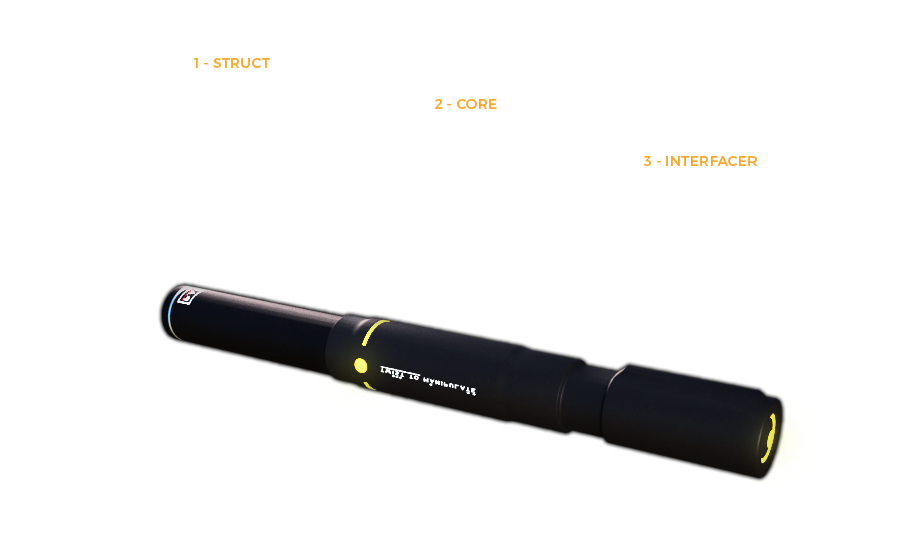
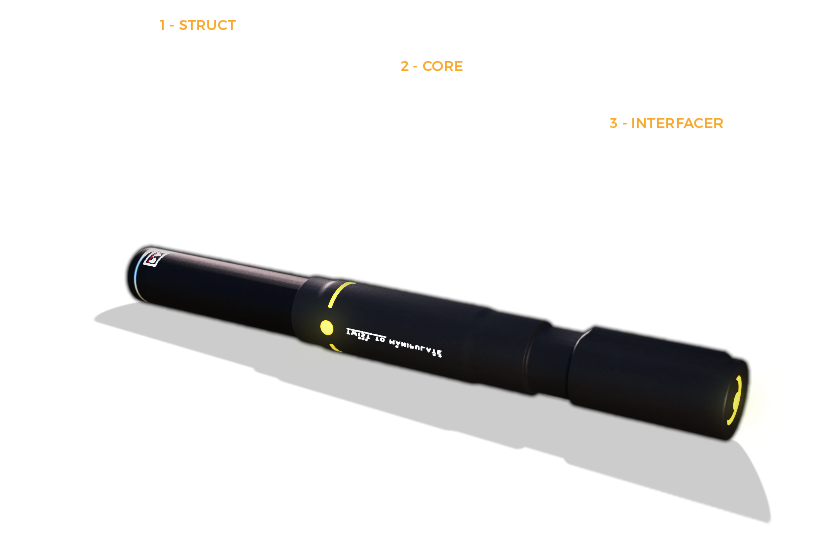
paci updates

diff --git a/paci.html b/paci.html
@@ -61,57 +61,85 @@
 
     <!--     Header Section     -->
     <header class="contentHeader" style="background-image: url(img/body/paci_scroll_bg.png);">
-      <div class="header-content contentHeaderContent parallax_ns4_gadget" style="background-image: url(img/body/paci_center.png); background-position: 50% 50%;">
-        <div class="contentHeaderContentInner">
-        	<img src="img/body/paci2_anim_1.png" id="paci_anim" width="300" />
-        	<h1 class="bodyTitle" id="mainQuote">PACI STICK_</h1>
-        	<p class="justify">Polysystemic Access and Control Interface<br>
-        	<em>Definitive tool for back-end UNIT access.</em></p>
-        	<hr class="light left" style="width:300px;">
-        </div>
+      <div class="header-content contentHeaderContent parallax_ns4_gadget" style="background-image: url(img/body/paci_center.png); background-position: 100% 50%;">
+            <div class="contentHeaderContentInner">
+              <img src="img/body/paci2_anim_1.png" id="paci_anim" width="300" />
+              <h1 class="bodyTitle" id="mainQuote">PACI STICK_</h1>
+              <p class="justify">Polysystemic Access and Control Interface<br>
+              <em>Definitive tool for back-end UNIT access.</em></p>
+              <hr class="light left" style="width:300px;">
+            </div>
         <div class="contentHeaderContentInnerScroll">
-        	<h1 class="scrollTitle">v SCROLL DOWN v</h1>
+              <h1 class="scrollTitle vanishOnScroll">v SCROLL DOWN v</h1>
         </div>
       </div>
     </header>
 
+    <!--     Header Section (Mobile)     -->
+    <header class="McontentHeader" style="background-image: url(img/body/paci_scroll_bg.png);">
+      <div class="header-content McontentHeaderContent">
+            <div class="McontentHeaderContentInner">
+              <img src="img/body/paci2_anim_1.png" id="paci_anim" width="300" />
+              <h1 class="bodyTitle" id="mainQuote">PACI STICK_</h1>
+              <p class="justify">Polysystemic Access and Control Interface<br>
+              <em>Definitive tool for back-end UNIT access.</em></p>
+              <hr class="light left" style="width:300px;">
+            </div>
+      </div>
+      <img src="img/body/paci_center.png" style="width: 100%" />
+    </header>
+
     <!--     Section     -->
     <section class="bg-dark2 shadow-top">
+    <div class="container">
+      <div class="row">
+        <div class="col-lg-6 text-left">
+          <h2>Lockpicks have become obselete</h2>
+          <hr class="light left">
+          <p>Officially designated Polysystemic Access and Control Interface, PACI sticks are a definitive tool in the arsenal of any hacker, whether that's an engineer, thief, or operative. These five devices, now available widely but often not legally, share the ability to interface with any computer architecture in existence - with each one being designed to target one specific type.</p>
+          <p>Given that back-end access to UNIT is access to nearly anything with the right skillset and tools, lockpicks have been effectively phased out by PACI sticks in all but the most backwater of regions. Often, operatives are trained to rely on their PACI sticks instead of their gun as a last resort weapon due to their incredible potential.</p>
+        </div>
+        <div class="col-lg-6">
+          <div class="quoteBlock agentRookQuoteBlock">
+            <p class="quoteBlockContent">Behind the reality we can see with our eyes, there is one we don't. Everything, from the most inconsequential microchip to the most powerful supercomputer, is interconnected. It's what computer scientists call the Ubiquitous-Node Internet of Things, or UNIT.</p>
+            <p class="quoteBlockContent">Every member of our society is expected to understand and interact with UNIT. The depth of your understanding and expertise, however, can dictate who you are in this world. Even the most rugged of operatives have to fully understand UNIT, because if they don't, it's only a matter of time before they get blindsided.</p>
+            <hr>
+            <h1>PRACTICAL HACKING // <span class="color">UNIT</span></h1>
+            <p class="quoteBlockSource"><em>Agent Rook's Guide to Interstellar Black Ops</em></p>
+          </div>
+        </div>
+      </div>
+    </div>
+    </section>
+
+  <!--     Section     -->
+    <section class="bg-dark3">
       <div class="container">
         <div class="row">
-          <div class="col-lg-6 text-left">
-          	<h2>Lockpicks have become obselete</h2>
-            <hr class="light left">
-            <p>Officially designated Polysystemic Access and Control Interface, PACI sticks are a definitive tool in the arsenal of any hacker, whether that's an engineer, thief, or operative. These five devices, now available widely but often not legally, share the ability to interface with any computer architecture in existence - with each one being designed to target one specific type.</p>
-			<p>Given that back-end access to UNIT is access to nearly anything with the right skillset and tools, lockpicks have been effectively phased out by PACI sticks in all but the most backwater of regions. Often, operatives are trained to rely on their PACI sticks instead of their gun as a last resort weapon due to their incredible potential.</p>
+          <div class="col-lg-4 text-left simpleFlex mobilePadding">
+            <img src="img/body/HefeiLab.png" />
+            <h1 class="mTitle">HEFEI LABS</h1>
           </div>
-          <div class="col-lg-6">
-          	<div class="quoteBlock agentRookQuoteBlock">
-          		<p class="quoteBlockContent">Behind the reality we can see with our eyes, there is one we don't. Everything, from the most inconsequential microchip to the most powerful supercomputer, is interconnected. It's what computer scientists call the Ubiquitous-Node Internet of Things, or UNIT.</p>
-				<p class="quoteBlockContent">Every member of our society is expected to understand and interact with UNIT. The depth of your understanding and expertise, however, can dictate who you are in this world. Even the most rugged of operatives have to fully understand UNIT, because if they don't, it's only a matter of time before they get blindsided.</p>
-				<hr>
-				<h1>PRACTICAL HACKING // <span class="color">UNIT</span></h1>
-				<p class="quoteBlockSource"><em>Agent Rook's Guide to Interstellar Black Ops</em></p>
-          	</div>
+          <div class="col-lg-8 text-left">
+            <h2>Ushering in a new age</h2>
+            <hr class="light left">
+            <p>Before the specifications for PACI were leaked from Hefei Labs 34 years ago, interfacing with UNIT systems was a cable management nightmare. Unique digital readers and adapter chains for thousands of different computer systems with non-conforming standards was a typical cirumstance, and in a way, that provided them security.</p>
+            <p>PACI sticks changed the game. By using revolutionary hardware to bridge devices on their respective architectures, an entire new world revealed itself. Hackers across the universe suddenly had portable access to any UNIT device, and the security of nearly every institution in existence was put to the test within that first year.</p>
+            <p>The world hasn’t been the same since.</p>
           </div>
         </div>
       </div>
     </section>
 
-	<!--     Section     -->
-    <section class="bg-dark3">
+    <!--     Section     -->
+    <section class="bg-dark2">
       <div class="container">
         <div class="row">
           <div class="col-lg-12 text-left">
-          	<h2>Ushering in a new age</h2>
+            <h2>Component Breakdown</h2>
             <hr class="light left">
-            <p>Before the specifications for PACI were leaked from Hefei Labs 34 years ago, interfacing with UNIT systems was a cable management nightmare. Unique digital readers and adapter chains for thousands of different computer systems with non-conforming standards was a typical cirumstance, and in a way, that provided them security.</p>
-			<p>PACI sticks changed the game. By using revolutionary hardware to bridge devices on their respective architectures, an entire new world revealed itself. Hackers across the universe suddenly had portable access to any UNIT device, and the security of nearly every institution in existence was put to the test within that first year.</p>
-			<p>The world hasn’t been the same since.</p>
-			<div class="contentPadding"></div>
-			<h2>Component Breakdown</h2>
-            <hr class="light left">
-			<div class="centerImage"><img src="img/body/paci_stick.png" /></div>
+            <div class="contentPadding"></div>
+            <div class="centerImage"><img src="img/body/paci_stick.png" class="detailDiagram" /></div>
           </div>
         </div>
       </div>
@@ -133,7 +161,7 @@
       });
 
       $(document).ready(function($) {
-      	$('#mainQuote').shuffleLetters();
+        $('#mainQuote').shuffleLetters();
       });
     </script>
 

diff --git a/css/style.css b/css/style.css
@@ -963,10 +963,16 @@ section.masthead {
   /* Media Queries
   --------------------------------------------- */
 
-  @media all and (max-width : 768px) {
+
+
+  @media all and (max-width : 991px) {
 
     .hiddenItem {
       display: block;
+    }
+
+    .menu {
+      width: 100% !important;
     }
 
   .visibleLogoText {
@@ -1004,10 +1010,6 @@ section.masthead {
     background-color: #333;
     margin-left: -15px;
     margin-right: -15px;
-  }
-
-  ul .menu {
-    width: 100% !important;
   }
 
   nav { margin: 0; }
@@ -1130,9 +1132,52 @@ section.masthead {
   margin-top: auto;
 }
 
+.McontentHeader {
+  display: none;
+  color: white;
+}
+.McontentHeaderContentInner {
+  text-align: center;
+  padding: 10px;
+  margin: 0 auto;
+  padding-bottom: 50px;
+}
+.McontentHeaderContent {
+  height: 100%;
+
+  display: flex;
+  flex-direction: column;
+  justify-content: center;
+
+  padding-top: 125px;
+}
+@media (max-width : 1540px) {
+  .McontentHeader {
+    display: block;
+  }
+  .contentHeader {
+    display: none;
+  }
+}
+
+@media (max-width : 992px) {
+  .mobilePadding {
+    padding-bottom: 50px;
+  }
+}
+
 #paci_anim {
   animation: paci_anim2 2s infinite;
 }
+
+.simpleFlex {
+  display: flex;
+  justify-content: center;
+  align-items: center;
+  flex-direction: column;
+}
+
+
 
 /*@keyframes paci_anim{
   0%{
@@ -1168,6 +1213,12 @@ section.masthead {
 .centerImage {
   text-align: center;
 }
+@media (max-width : 820px) {
+  .detailDiagram {
+    width: 100%;
+  }
+}
+
 
 .contentPadding {
   height: 50px;
@@ -1204,6 +1255,14 @@ section.masthead {
   text-align: right;
 }
 
+.mTitle {
+  font-family: 'Montserrat', Arial, sans-serif;
+  letter-spacing: 0.2em;
+  font-size: 1.2em;
+  font-weight: 700;
+  color: #fff;
+}
+
 .quoteBlock hr {
   width: 100%;
   border-width: 2px;
@@ -1212,6 +1271,10 @@ section.masthead {
 
 .color {
   color:  #f8a82b;
+}
+
+.vanishOnScroll {
+  transition: 0.3s ease-in-out;
 }
 
 .agentRookQuoteBlock {

diff --git a/js/headScript.js b/js/headScript.js
@@ -34,7 +34,11 @@ $(document).ready(function() {
     $('.parallax_ns7').parallax("50%", -0.7, true);
     $('.parallax_ns8').parallax("50%", -0.8, true);
 
-
+    if ($(".vanishOnScroll").length) {
+      $( window ).scroll(function() {
+        $( ".vanishOnScroll" ).css( "opacity", "0" );
+      });
+    }
 
     /* for (var i = 1; i < 6; i++){
       animFunction(i);
